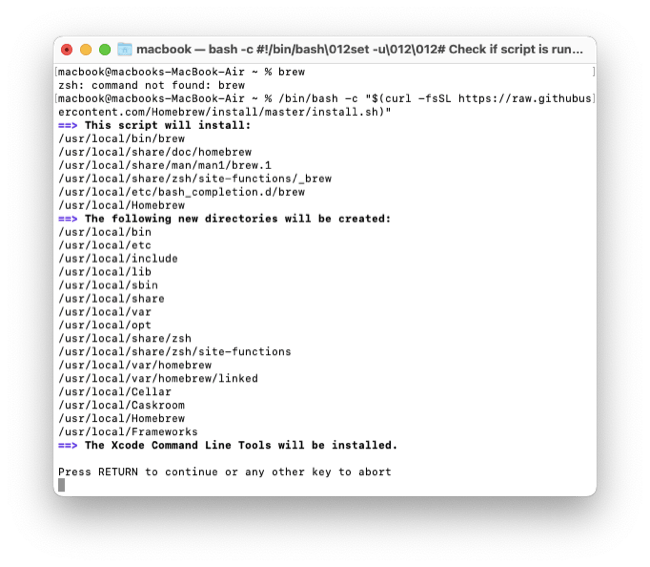
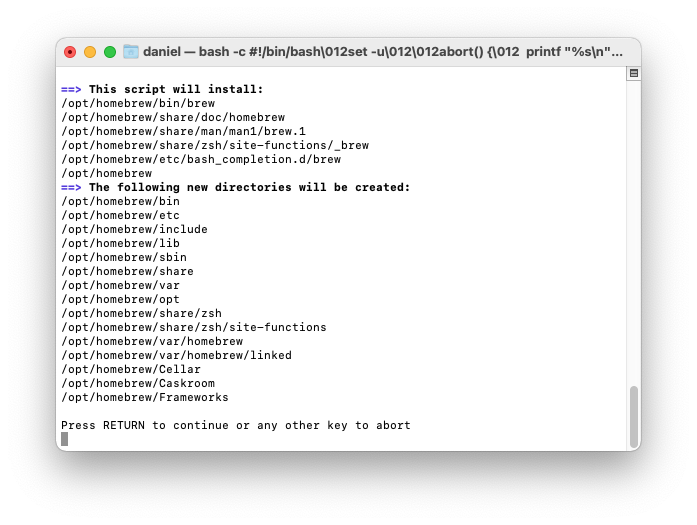
revise 'Install Homebrew'

Changed region(s): [[0.0615, 0.061, 0.9231, 0.8838]]

diff --git a/ruby/3.md b/ruby/3.md
@@ -27,7 +27,7 @@ $ /bin/bash -c "$(curl -fsSL https://raw.githubusercontent.com/Homebrew/install/
 The Homebrew installation script will ask you to enter your Mac user password.
 
 ```bash
-Password:🔑
+Password:
 ```
 
 You won't see the characters as you type. Press enter when you are done.
@@ -39,6 +39,20 @@ You'll see a list of files and folders that Homebrew will install. If you haven'
 ![](/assets/images/ruby/install-homebrew.png)
 
 Homebrew installation takes many minutes (you’ll see diagnostic and progress messages).
+
+![](/assets/images/ruby/homebrew-complete.png)
+
+On Mac Intel machines, that's all you need to do; Homebrew is ready to use. On Mac Intel, Homebrew installs itself into the `/usr/local/bin` directory, which is already configured for access by the shell with the macOS default `$PATH` environment variable (the default is set by the `/usr/libexec/path_helper` command).
+
+On Apple Silicon machines, there's one more step. Homebrew files are installed into the `/opt/homebrew` folder. But the folder is not part of the default `$PATH`. Follow Homebrew's advice and create a `~/.zprofile` file which contains a command which sets up Homebrew. Homebrew shows instructions at the end of the installation process:
+
+```bash
+- Add Homebrew to your PATH in /Users/daniel/.zprofile:
+echo 'eval "$(/opt/homebrew/bin/brew shellenv)"' >> /Users/daniel/.zprofile
+eval "$(/opt/homebrew/bin/brew shellenv)"
+```
+
+Copy and paste from the Homebrew instructions because they include your own user directory name (the example above contains my user directory name).
 
 After you've installed Homebrew, check that Homebrew is installed properly.
 
@@ -55,6 +69,15 @@ Your system is ready to brew.
 ![](/assets/images/ruby/brew-doctor.png)
 
 If Homebrew is successfully installed, there will be Homebrew files in  `/usr/local` (for macOS Intel) or `/opt/homebrew` (for Apple Silicon).
+
+As you use Homebrew, it is helpful to see a list of all the packages you've installed, or packages and their dependencies.
+
+```bash
+$ brew list
+$ brew deps --tree --installed
+```
+
+Right now, immediately after installation, these commands show nothing is installed.
 
 Next we'll configure Git, an essential tool for any developer. But first, be aware that you may have to reinstall Command Line Tools after a macOS upgrade.
 
